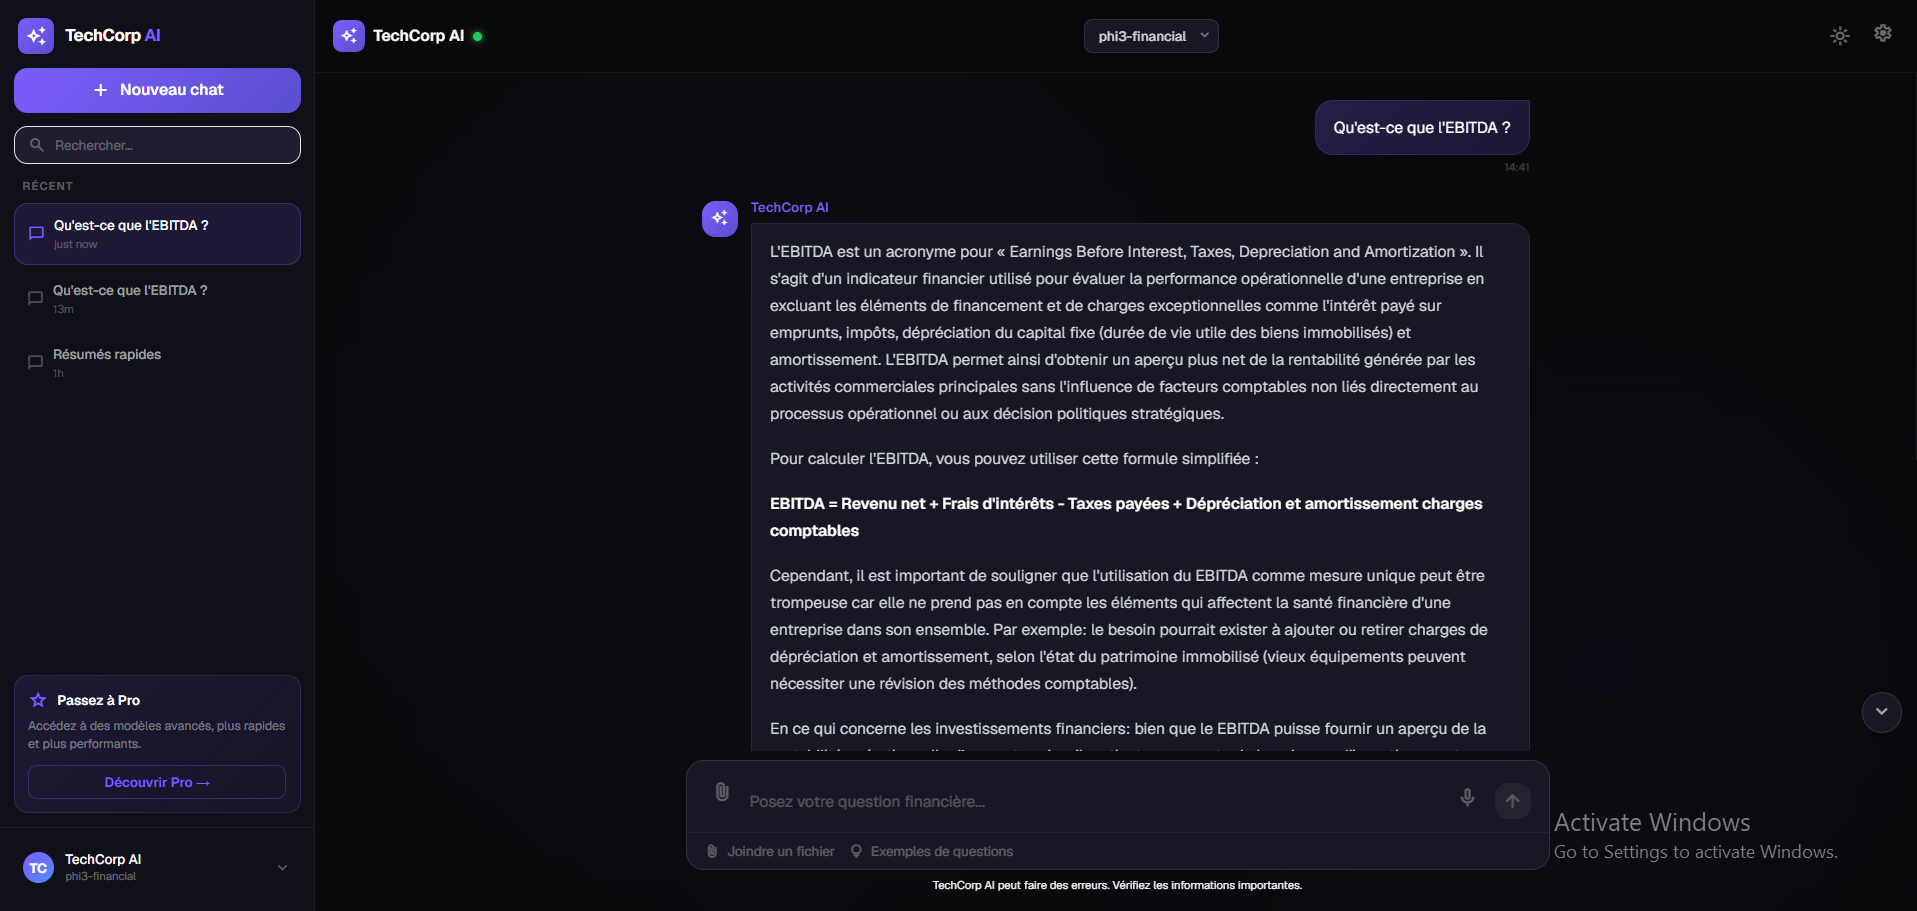
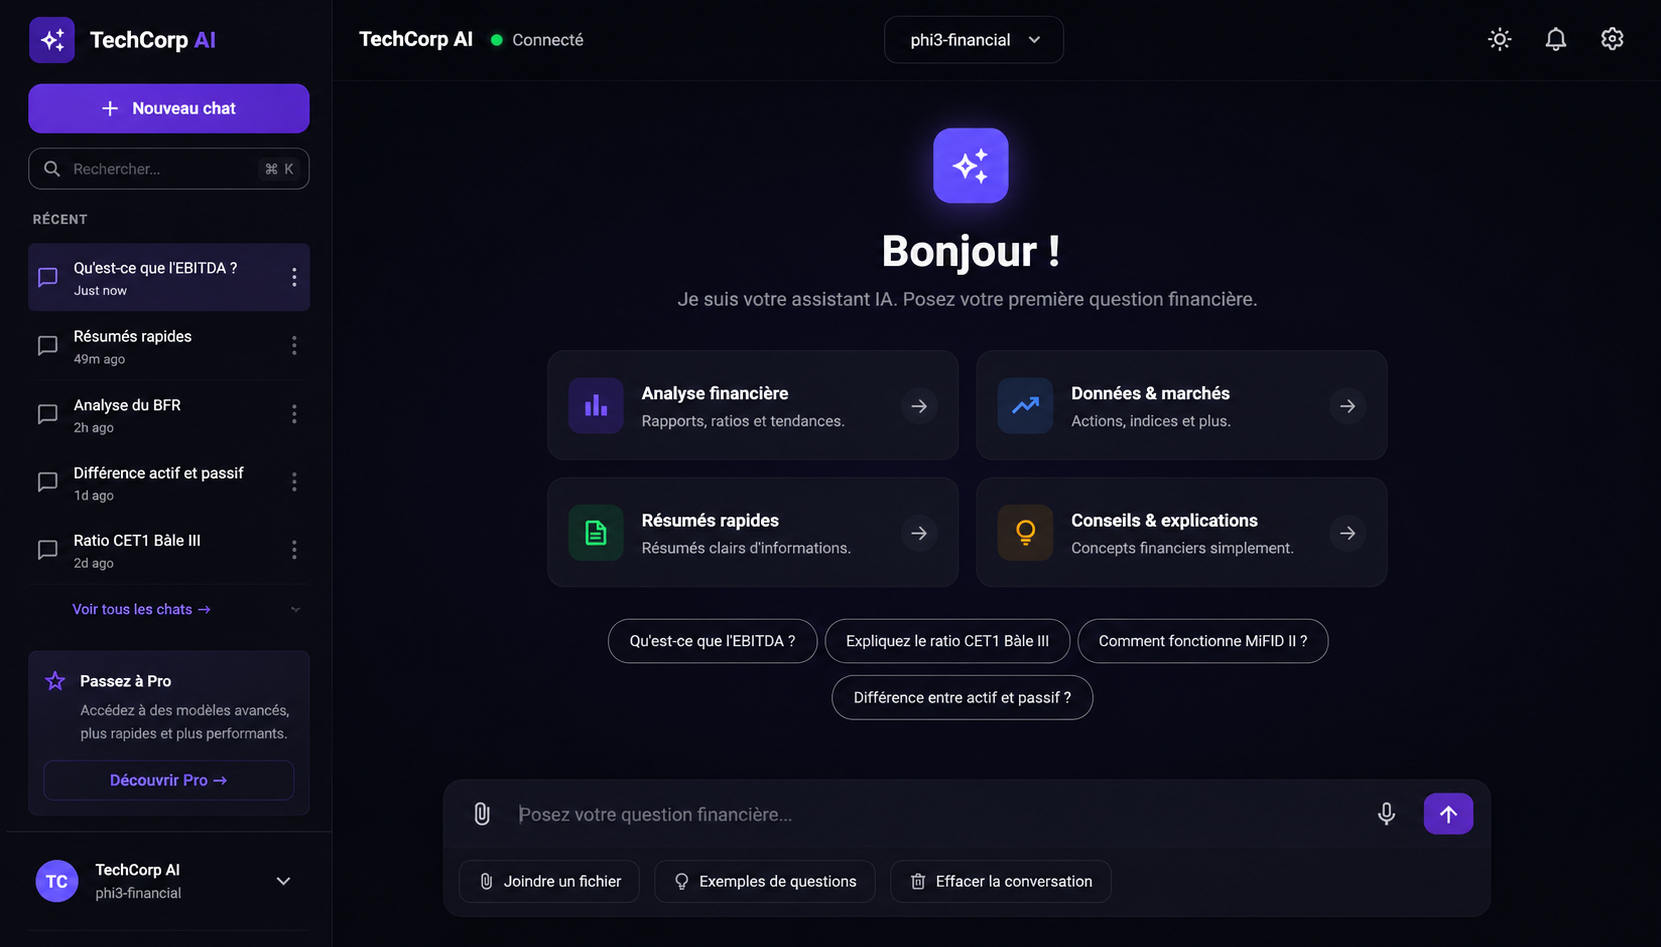
docs: add team members to README, update screenshots

diff --git a/README.md b/README.md
@@ -1,7 +1,31 @@
 # TechCorp AI Chat
 
-Assistant IA financier spécialisé basé sur **Ollama + Phi-3.5-Financial**, déployé sans accès root sur Debian 13. 
+Assistant IA financier spécialisé basé sur **Ollama + Phi-3.5-Financial**, déployé sans accès root sur Debian 13.
 Interface accessible sur **https://4ride.online**
+
+Challenge IA Interfiliere - Groupe B - YNOV Lyon 2026
+
+---
+
+## Equipe
+
+| Nom | Filiere | Niveau |
+|---|---|---|
+| NOBLET Alexandre | DEV | M1 |
+| PINHEIRO Philippe | DEV | M1 |
+| KOUAKOU Elie Marc | DEV | B3 |
+| NOUALI Malcom | DEV | M1 |
+| REZIG Rachid | DEV | M1 |
+| DEMERGÉ Guillaume | IA | M1 |
+| CALVO Tom | IA | B3 |
+| SINTONDJI Ange Bignona | IA | M1 |
+| MASSO LACROIX Erine Grace | IA | B3 |
+| NAMANI Samuel | CYBER | M1 |
+| QUAGLIERI Lisa | CYBER | B3 |
+| JANUTOLO Ugo | CYBER | B3 |
+| GUTTIN Arnaud | INFRA | M1 |
+| HAMDY Iman | INFRA | B3 |
+| BADIN Matthieu | INFRA | M1 |
 
 ---
 